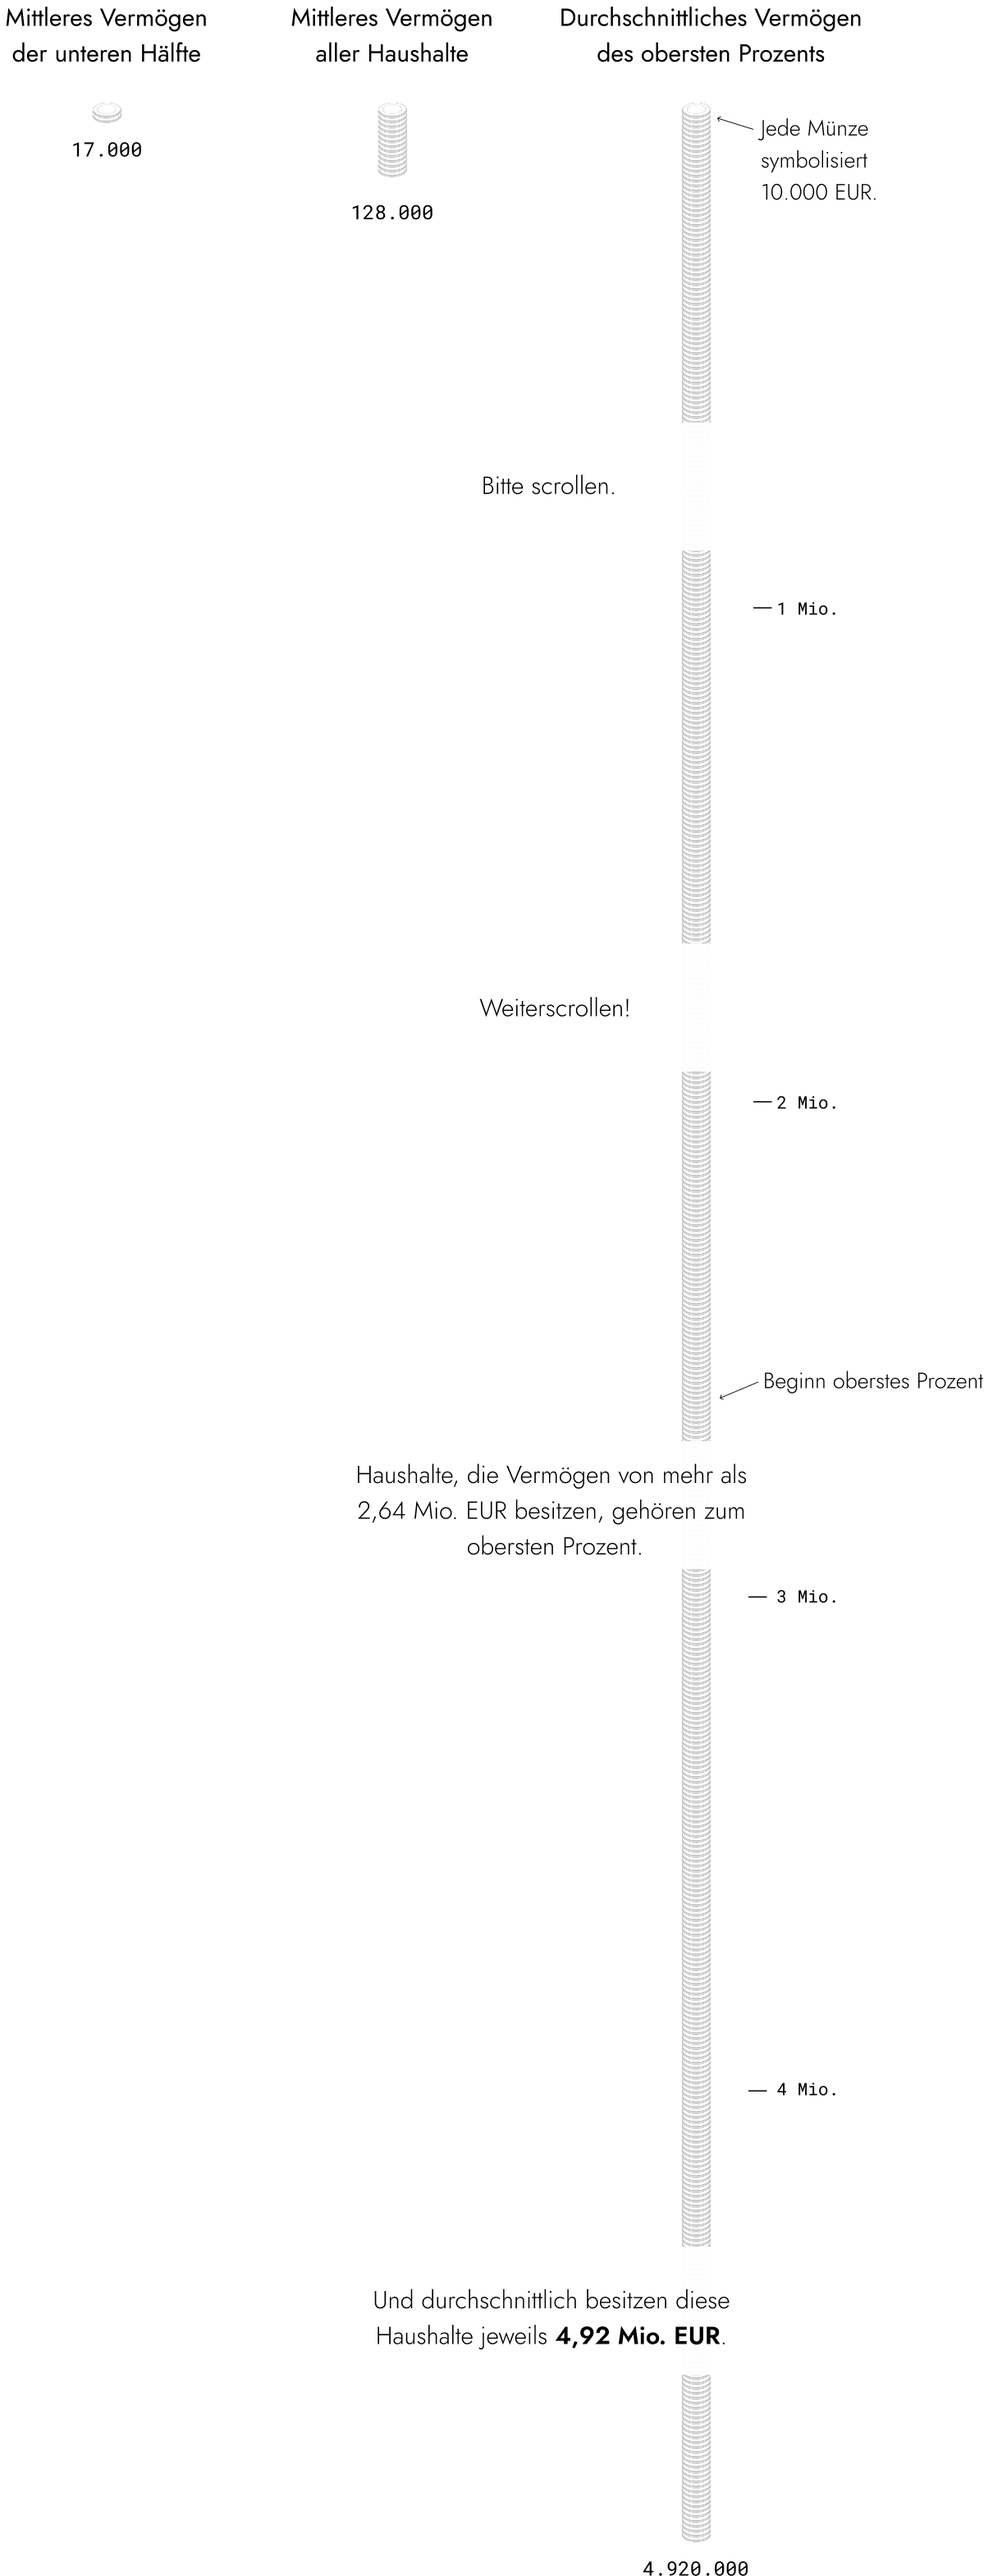
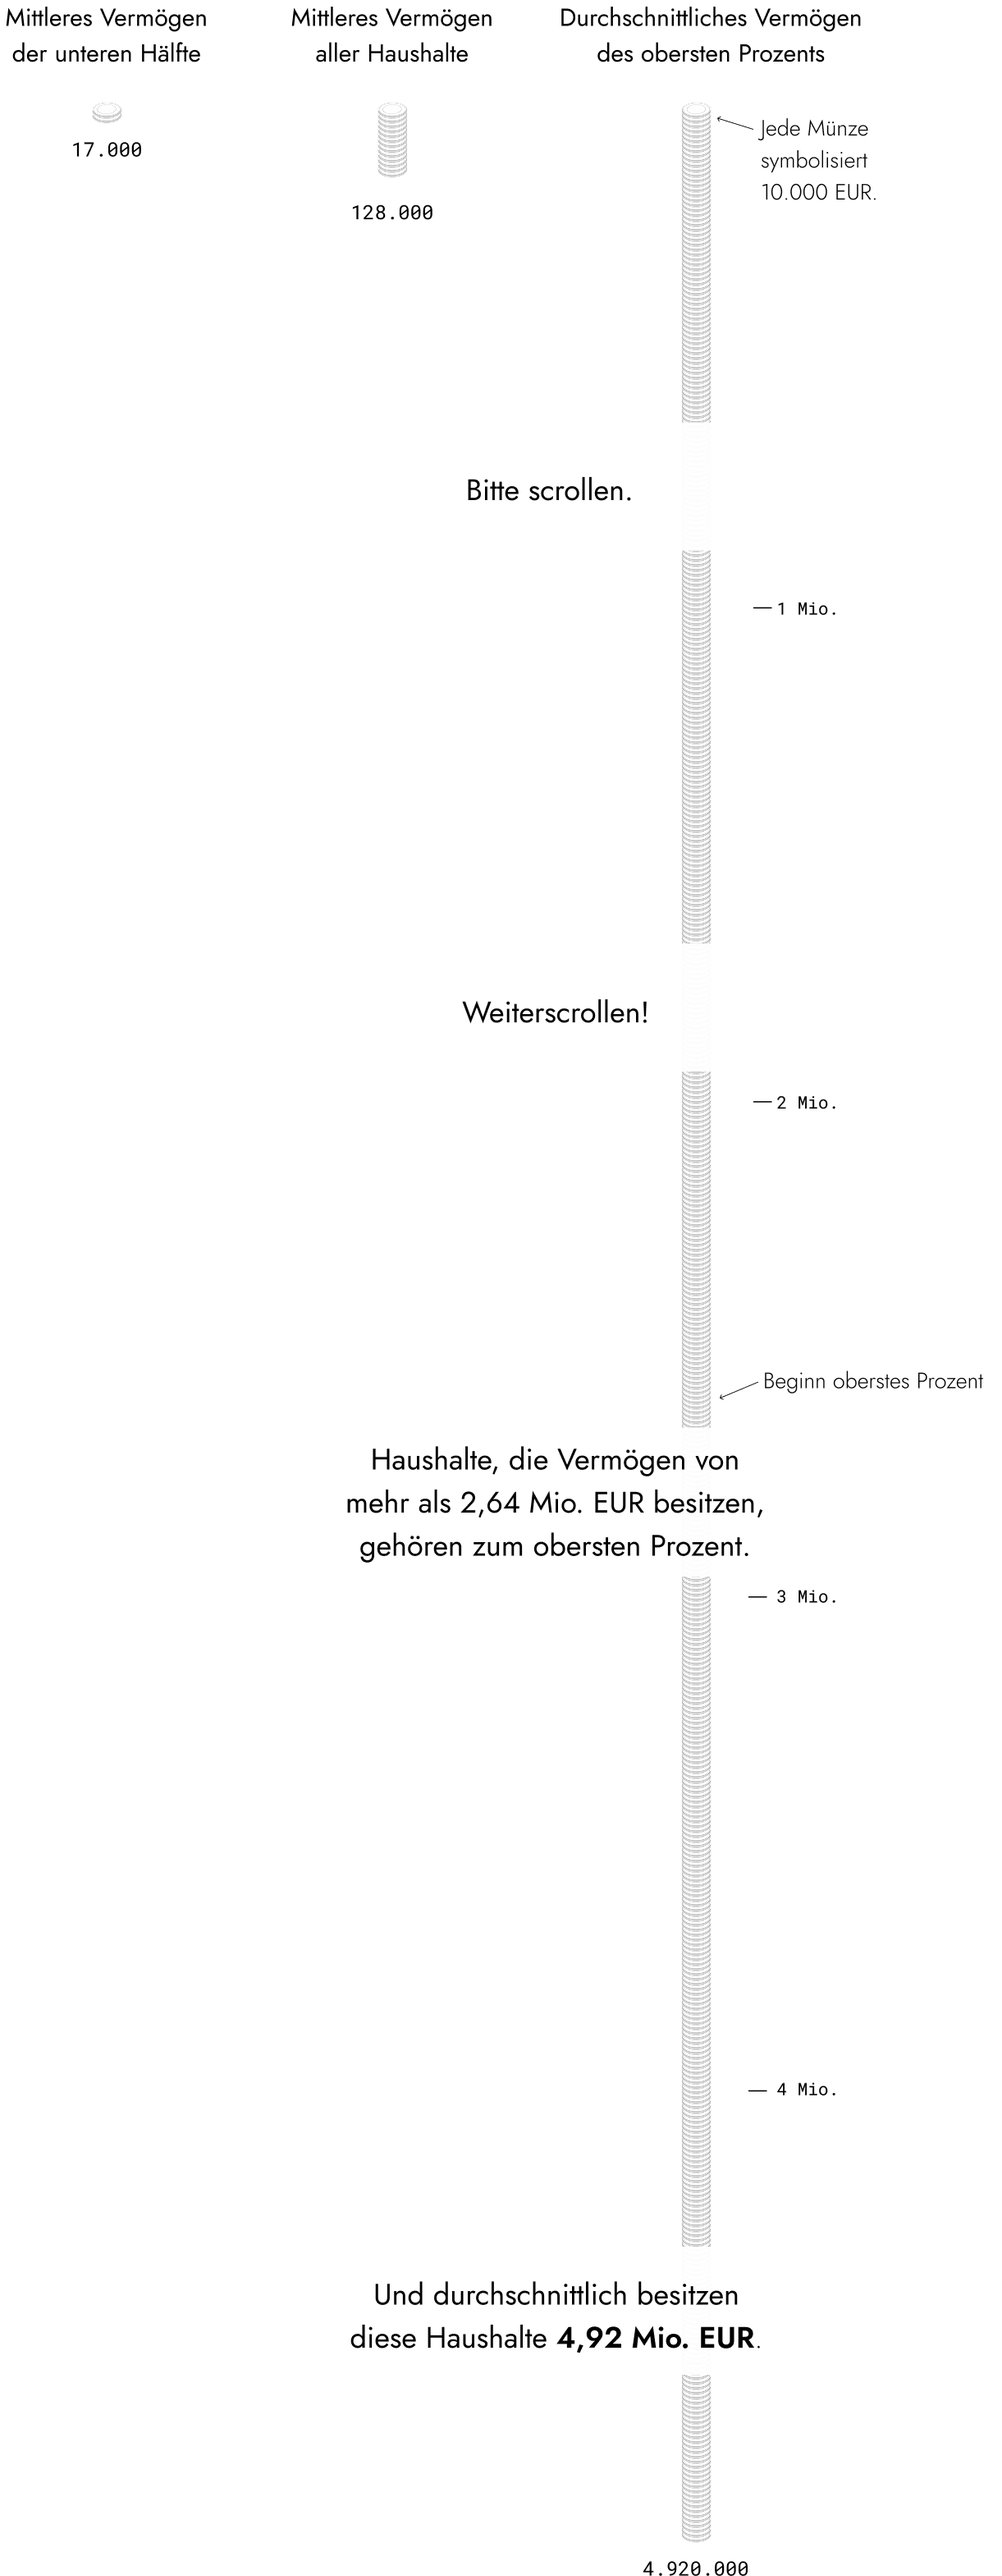
font-weight 400

diff --git a/docs/index.html b/docs/index.html
@@ -56,11 +56,11 @@ ul.task-list li input[type="checkbox"] {
       <!-- user-provided yaml closeread style options -->
       <style>
         :root {
-          --cr-narrative-border-radius: 5px;
+          --cr-section-background-color: #F1F1F1;
 --cr-narrative-background-color-overlay: #FFFFFFF2;
---cr-section-background-color: #F1F1F1;
---cr-narrative-text-color-overlay: black;
 --cr-narrative-font-family: Jost;
+--cr-narrative-text-color-overlay: black;
+--cr-narrative-border-radius: 5px;
         }
       </style>
     

diff --git a/docs/css/styles.css b/docs/css/styles.css
@@ -13,8 +13,8 @@
 
 body {
   font-family: Jost, Arial, sans-serif;
-  font-weight: 300;
   color: black;
+  font-weight: 400;
 }
 
 h1 {
@@ -99,7 +99,7 @@ ul {
 }
 
 li {
-  font-weight: 300 !important;
+  font-weight: 400 !important;
   font-size: 0.9em;
 }
 
@@ -128,7 +128,7 @@ a:hover {
 }
 
 .highlighted-text {
-  font-weight: 600;
+  font-weight: 500;
   background-color: var(--color-darkgrey);
   color: white;
   padding: 2px 4px;
